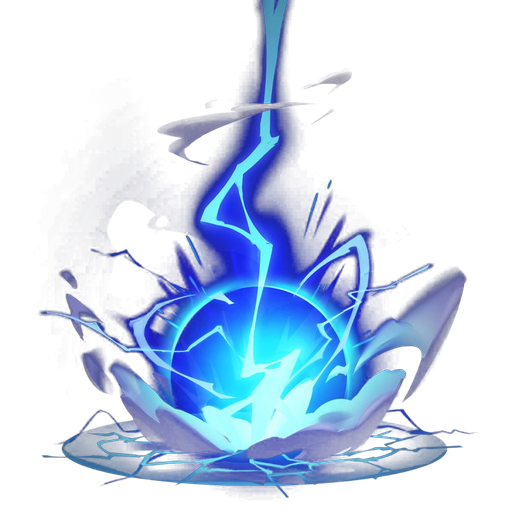
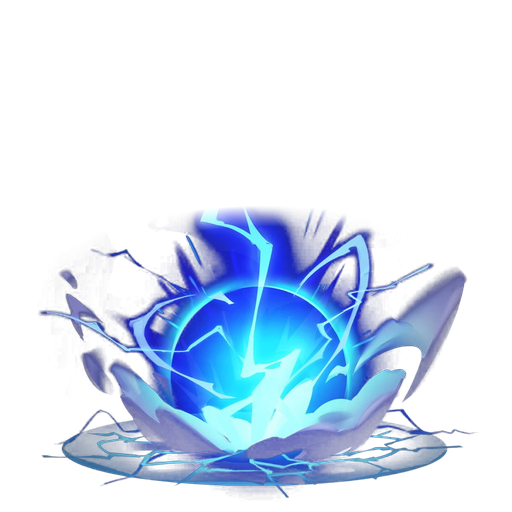
vfx-lab: Tử Tiêu Thần Lôi — ảnh nổ chỉ giữ quả cầu, bỏ tia sét phía trên
Claude-Session: https://claude.ai/code/session_014A94BHnyL4tu48AS77QbVM

Changed region(s): [[0.3125, 0.0, 0.7188, 0.4688], [0.1875, 0.3438, 0.3125, 0.4688], [0.5938, 0.125, 0.6875, 0.1875]]

diff --git a/tools/art/lightning.py b/tools/art/lightning.py
@@ -95,6 +95,12 @@ def blast():
     out = np.dstack([a, A * 255])
     img = Image.fromarray(out.astype(np.uint8), 'RGBA').resize((512, 512), Image.LANCZOS)
     o = np.array(img).astype(float)
+    # chỉ giữ quả cầu (+ nứt đất): xoá tia sét giáng phía trên cầu bằng mặt nạ elip mềm quanh cầu (nửa dưới giữ nguyên)
+    yy, xx = np.mgrid[0:512, 0:512].astype(float)
+    CX, CY = 265.0, 345.0
+    e = np.sqrt(((xx - CX) / 280) ** 2 + ((yy - CY) / 140) ** 2)
+    keep = np.where(yy >= CY, 1.0, np.clip((1.0 - e) / 0.15, 0, 1))
+    o[..., 3] *= keep
     save(o, 'thunder_blast.png'); save(purple(o), 'thunder_blast_aw.png')
     print('blast 512 ground', 0.5, round(1010 / 1200, 3))
 
